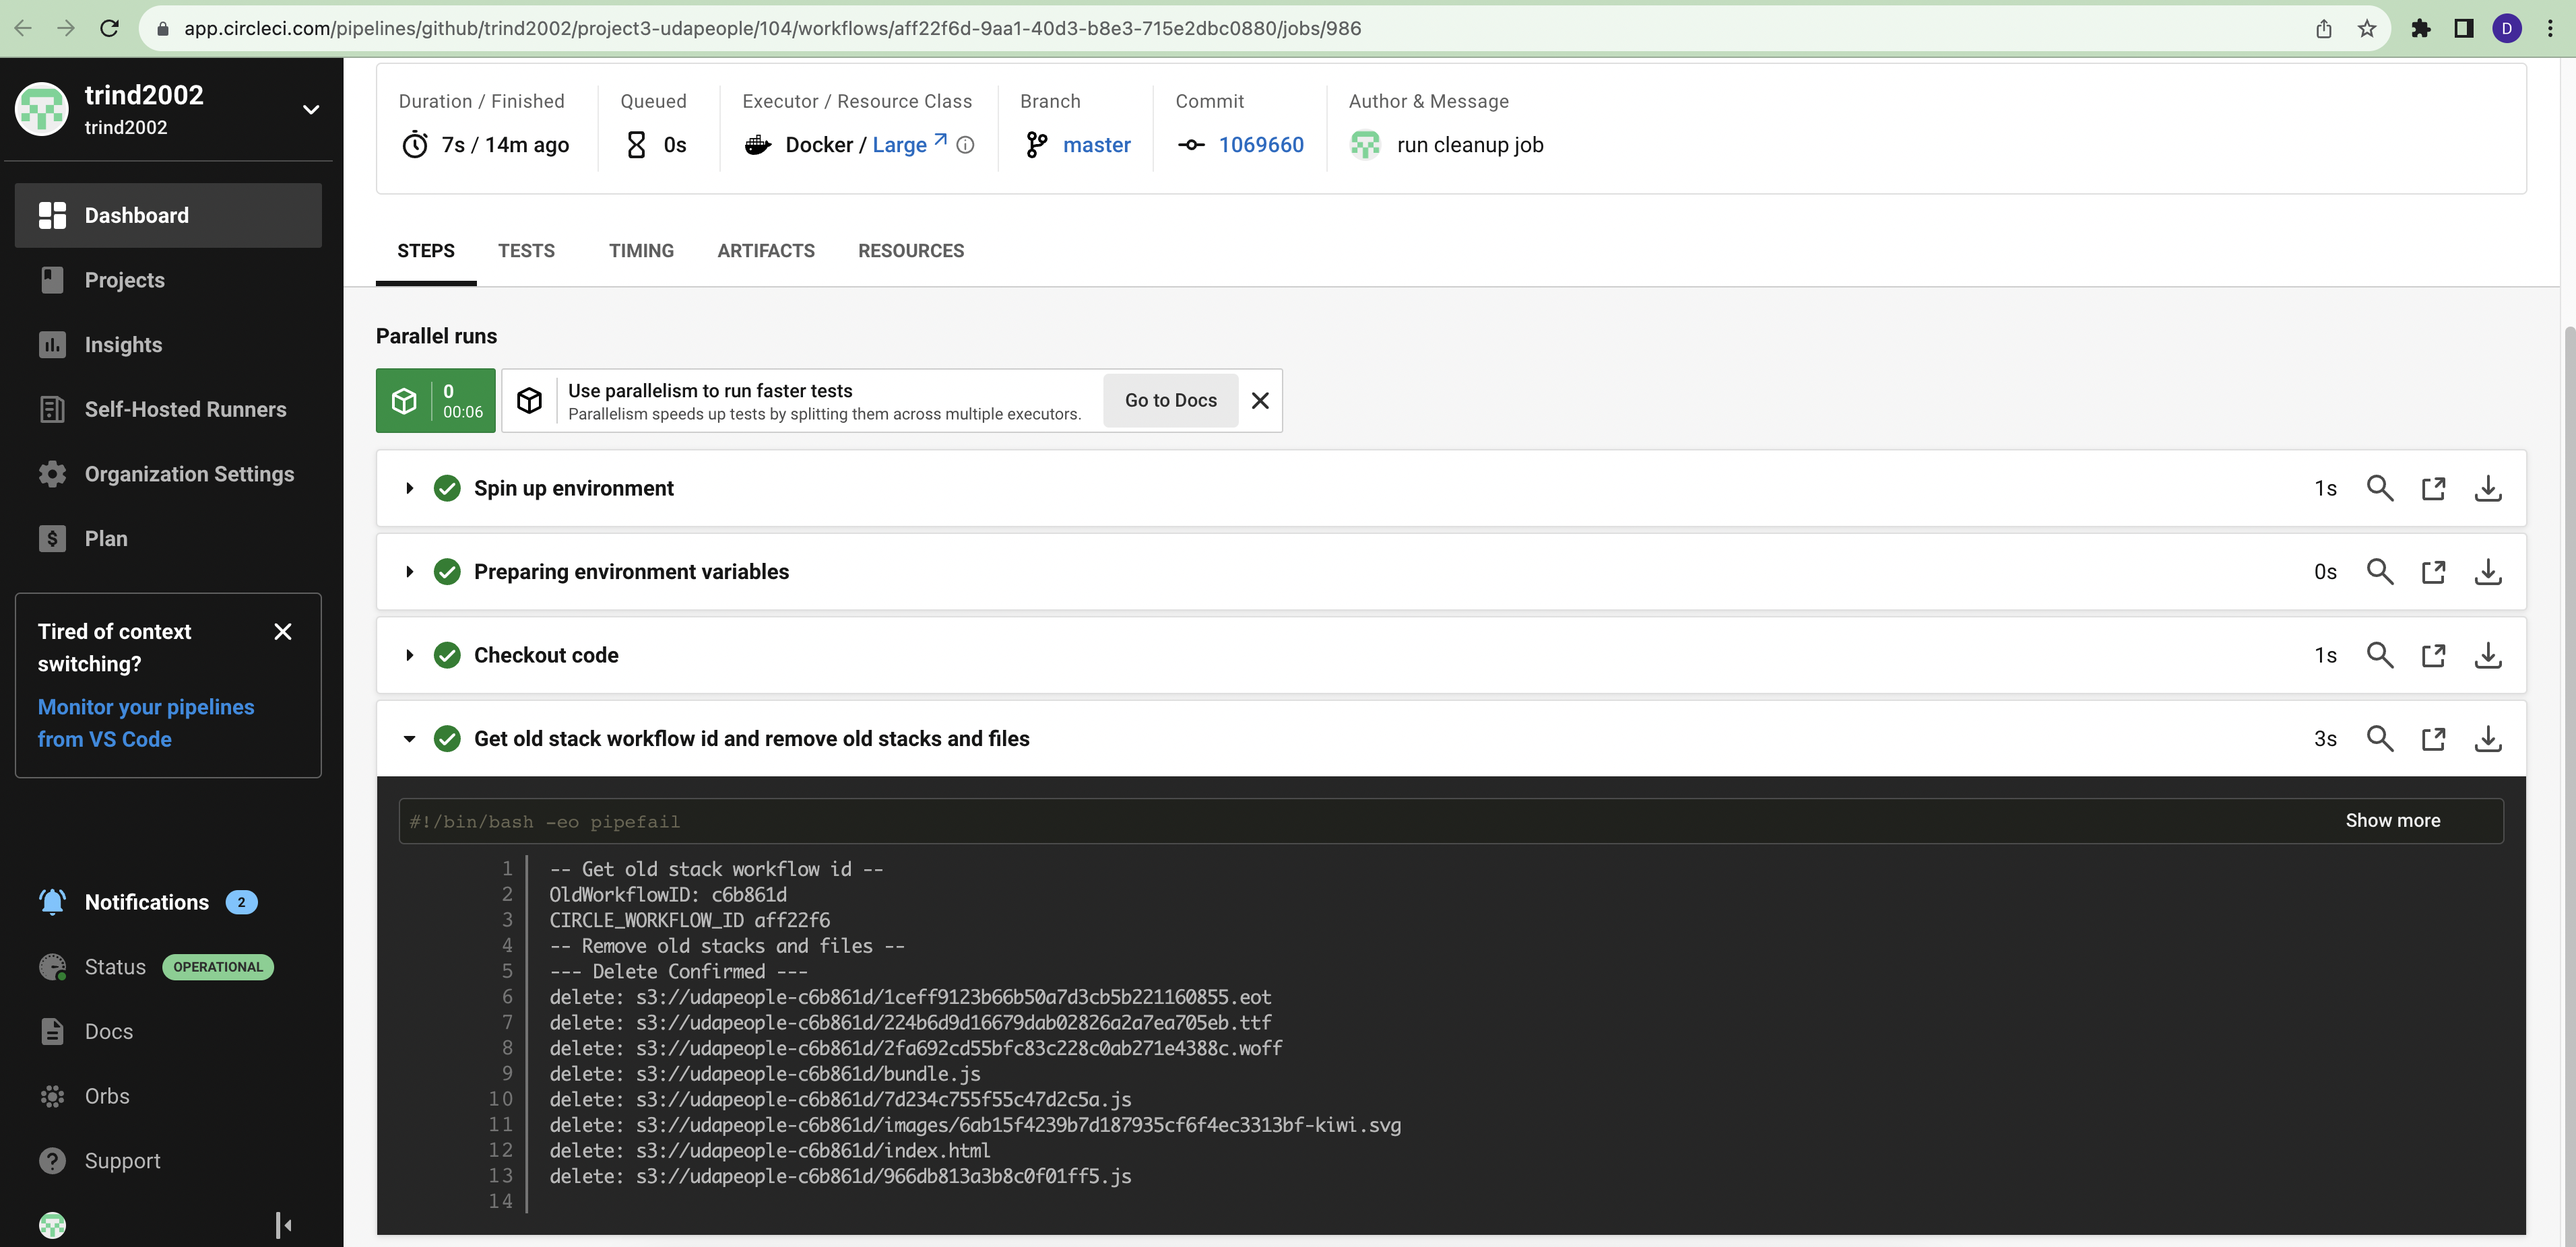
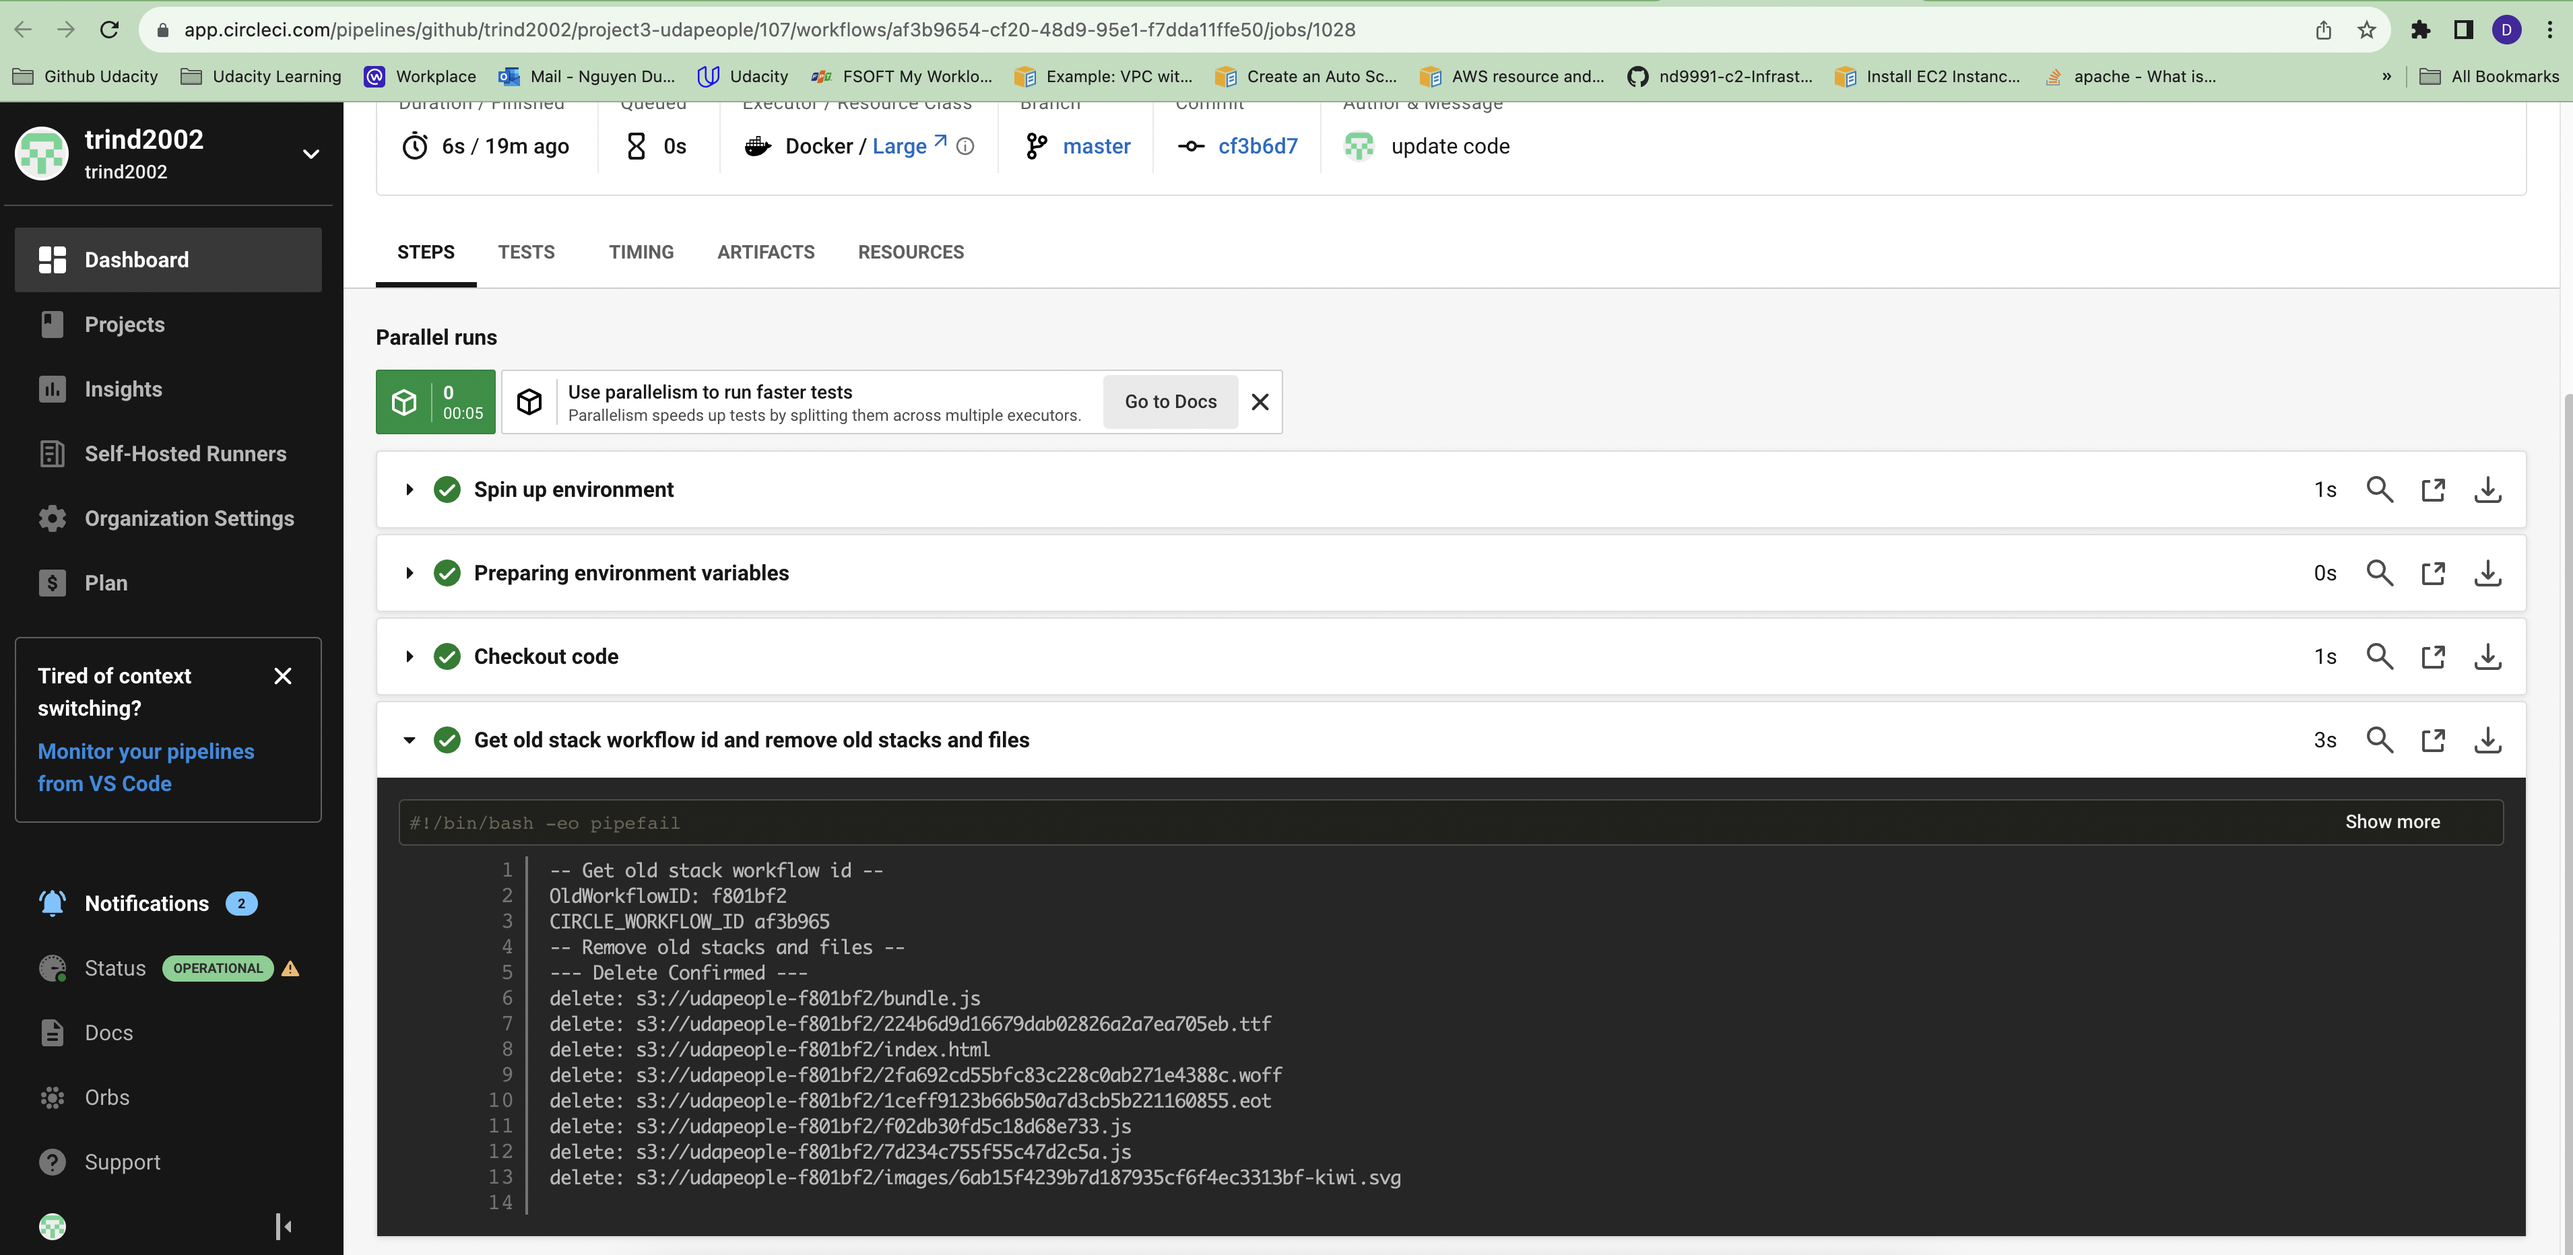
Update evidence image + url

diff --git a/urls.md b/urls.md
@@ -1,6 +1,6 @@
 - A text file named `urls.txt` including:
   1. Public Url to GitHub repository (not private) [URL01](https://github.com/trind2002/project3-udapeople)
-  1. Public URL for your S3 Bucket (aka, your green candidate front-end) [URL02](http://udapeople-aff22f6.s3-website-us-east-1.amazonaws.com/)
+  1. Public URL for your S3 Bucket (aka, your green candidate front-end) [URL02](http://udapeople-af3b965.s3-website-us-east-1.amazonaws.com/#/employees)
   1. Public URL for your CloudFront distribution (aka, your blue production front-end) [URL03](http://d1skoozlxba3z4.cloudfront.net)
-  1. Public URLs to deployed application back-end in EC2 [URL04](http://54.175.201.14:3030/api/status)
+  1. Public URLs to deployed application back-end in EC2 [URL04](http://54.152.22.232:3030/api/status)
   1. Public URL to your Prometheus Server [URL05]
